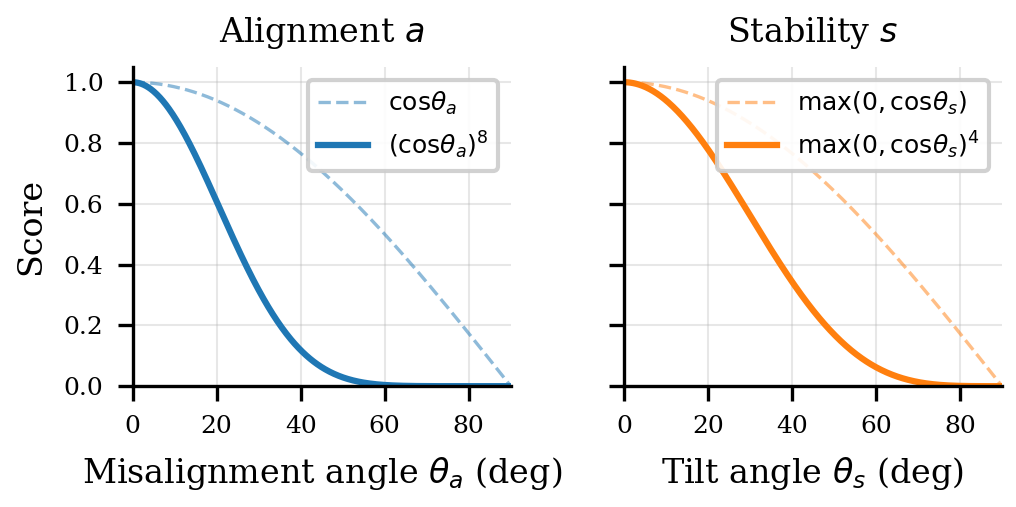
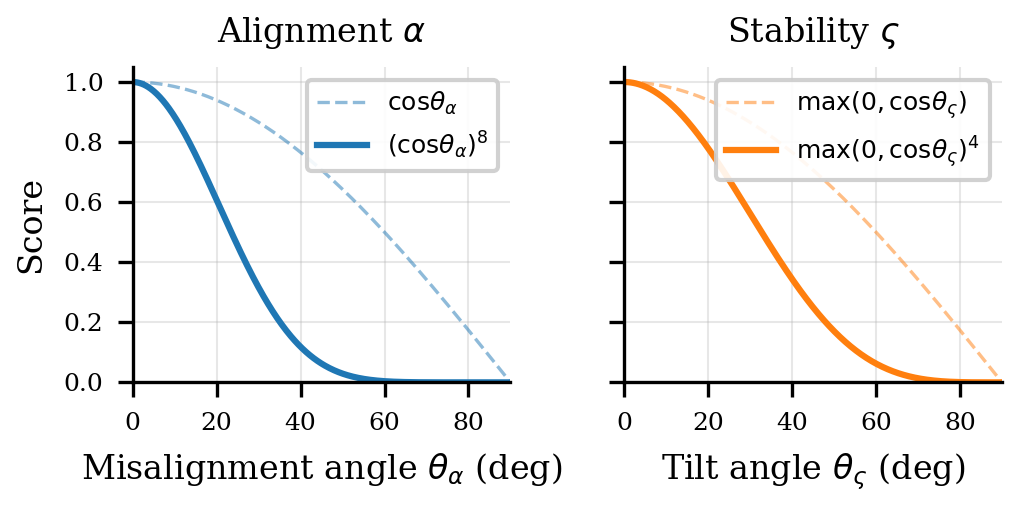
docs update

diff --git a/docs/iros2026_draft_new.tex b/docs/iros2026_draft_new.tex
@@ -219,13 +219,13 @@ The grapple jaws are controlled using a PD velocity law with saturation and disc
 After lifting (\texttt{LIFT}), the FSM holds the grapple at hover height and evaluates grasp outcome by measuring proximity and orientation of logs relative to the \texttt{basegrapple} body:
 \textbf{Logs grasped} ($g$): the number of active logs (i.e., logs not yet removed from the scene) whose centers lie within a proximity radius of the grapple (default 1.5\,m).
 
-\textbf{Alignment} ($\alpha$): for each grasped log $i$, we measure the angle between the grapple's jaw axis $\hat{y}_g$ and the log's length axis $\hat{y}_{\ell_i}$ via their dot product ($\hat{y}_g^\top \hat{y}_{\ell_i} = \cos\theta_a$, where $\theta_a$ is the misalignment angle).
+\textbf{Alignment} ($\alpha$): for each grasped log $i$, we measure the angle between the grapple's jaw axis $\hat{y}_g$ and the log's length axis $\hat{y}_{\ell_i}$ via their dot product ($\hat{y}_g^\top \hat{y}_{\ell_i} = \cos\theta_\alpha$, where $\theta_\alpha$ is the misalignment angle).
 Because a cylindrical log has no preferred length direction, the even exponent absorbs the sign; raising to the 8th power creates a sharp dropoff that penalizes moderate misalignment:
 \begin{equation}
     \alpha_i = \big(\hat{y}_g^\top \hat{y}_{\ell_i}\big)^{8}, \qquad \alpha = \frac{1}{g}\sum_{i=1}^{g} \alpha_i \;\in [0,1].
 \end{equation}
 
-\textbf{Stability} ($\varsigma$): the grapple's levelness after lifting, measured as $\hat{z}_g^\top \hat{z}_w = \cos\theta_s$, where $\theta_s$ is the tilt angle between the grapple's up vector and the world vertical.
+\textbf{Stability} ($\varsigma$): the grapple's levelness after lifting, measured as $\hat{z}_g^\top \hat{z}_w = \cos\theta_\varsigma$, where $\theta_\varsigma$ is the tilt angle between the grapple's up vector and the world vertical.
 Clamping to zero excludes the degenerate case of an inverted grapple; raising to the 4th power ensures high scores only when the grapple is nearly level:
 \begin{equation}
     \varsigma = \big(\max(0,\;\hat{z}_g^\top \hat{z}_w)\big)^{4} \;\in [0,1].

diff --git a/docs/plot_outcome_scores.py b/docs/plot_outcome_scores.py
@@ -39,11 +39,11 @@ fig, (ax1, ax2) = plt.subplots(1, 2, figsize=(3.5, 1.8), sharey=True)
 fig.subplots_adjust(wspace=0.35)
 
 # Alignment
-ax1.plot(theta, alignment_raw, "--", color="C0", linewidth=0.8, alpha=0.5, label=r"$\cos\theta_a$")
-ax1.plot(theta, alignment, color="C0", linewidth=1.5, label=r"$(\cos\theta_a)^8$")
-ax1.set_xlabel(r"Misalignment angle $\theta_a$ (deg)")
+ax1.plot(theta, alignment_raw, "--", color="C0", linewidth=0.8, alpha=0.5, label=r"$\cos\theta_\alpha$")
+ax1.plot(theta, alignment, color="C0", linewidth=1.5, label=r"$(\cos\theta_\alpha)^8$")
+ax1.set_xlabel(r"Misalignment angle $\theta_\alpha$ (deg)")
 ax1.set_ylabel("Score")
-ax1.set_title("Alignment $a$")
+ax1.set_title(r"Alignment $\alpha$")
 ax1.legend(loc="upper right", framealpha=0.9)
 ax1.set_xlim(0, 90)
 ax1.set_ylim(0, 1.05)
@@ -52,10 +52,10 @@ ax1.spines["top"].set_visible(False)
 ax1.spines["right"].set_visible(False)
 
 # Stability
-ax2.plot(theta, stability_raw, "--", color="C1", linewidth=0.8, alpha=0.5, label=r"$\max(0,\cos\theta_s)$")
-ax2.plot(theta, stability, color="C1", linewidth=1.5, label=r"$\max(0,\cos\theta_s)^4$")
-ax2.set_xlabel(r"Tilt angle $\theta_s$ (deg)")
-ax2.set_title("Stability $s$")
+ax2.plot(theta, stability_raw, "--", color="C1", linewidth=0.8, alpha=0.5, label=r"$\max(0,\cos\theta_\varsigma)$")
+ax2.plot(theta, stability, color="C1", linewidth=1.5, label=r"$\max(0,\cos\theta_\varsigma)^4$")
+ax2.set_xlabel(r"Tilt angle $\theta_\varsigma$ (deg)")
+ax2.set_title(r"Stability $\varsigma$")
 ax2.legend(loc="upper right", framealpha=0.9)
 ax2.set_xlim(0, 90)
 ax2.grid(True, alpha=0.3, linewidth=0.5)
